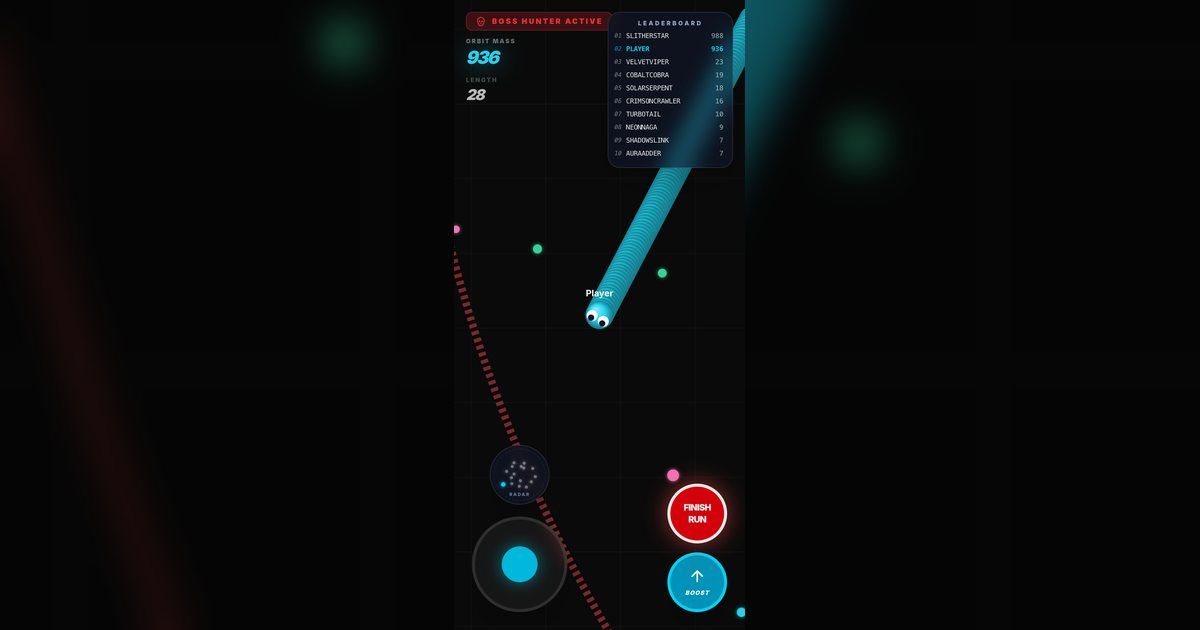
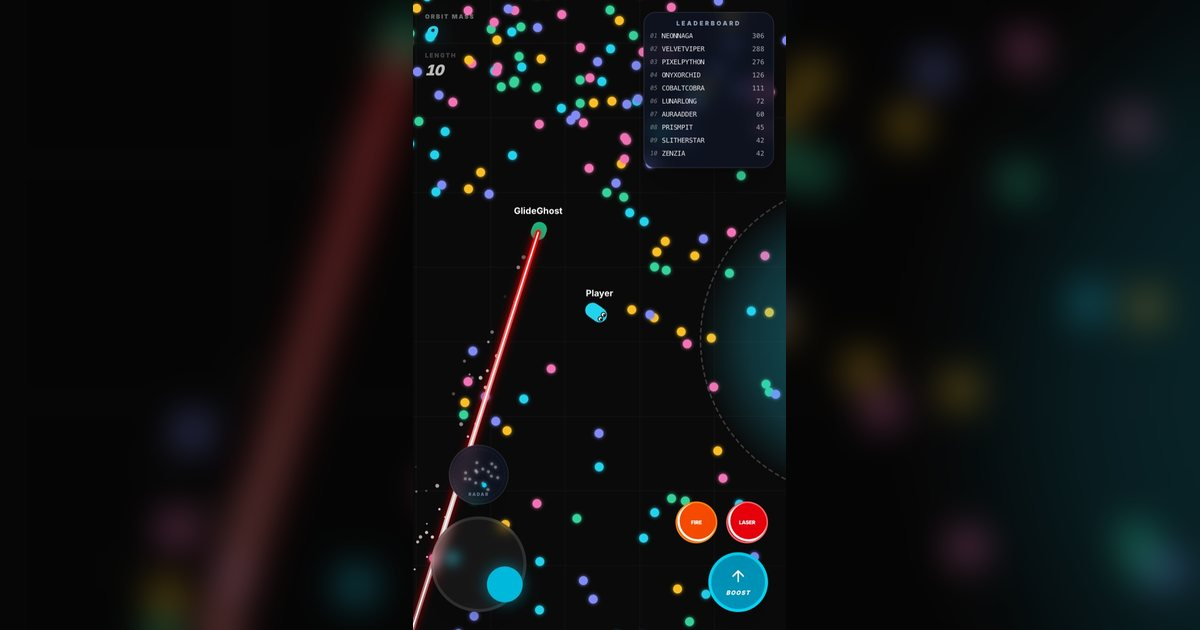
Restore the laser screenshot on the Slither Orbit card
The boss-fight shot lost the laser beam, which is the image's most distinctive
element. Brings back the original frame of a rival firing across the arena and
regenerates the share image to match; the boss and magic copy stays.

diff --git a/site/index.html b/site/index.html
@@ -269,7 +269,7 @@
           </div>
         </div>
         <div class="game-shot">
-          <img src="/assets/slither-orbit.jpg?v=3" width="640" height="1385" alt="Slither Orbit boss fight: a huge glowing cyan snake coiling through a dark arena under a &quot;Boss Hunter Active&quot; banner, second place on the live leaderboard." loading="lazy">
+          <img src="/assets/slither-orbit.jpg?v=4" width="640" height="1080" alt="Slither Orbit gameplay: a rival snake fires a long red laser across a dark arena scattered with glowing pellets, beside a live leaderboard." loading="lazy">
         </div>
       </div>
 
